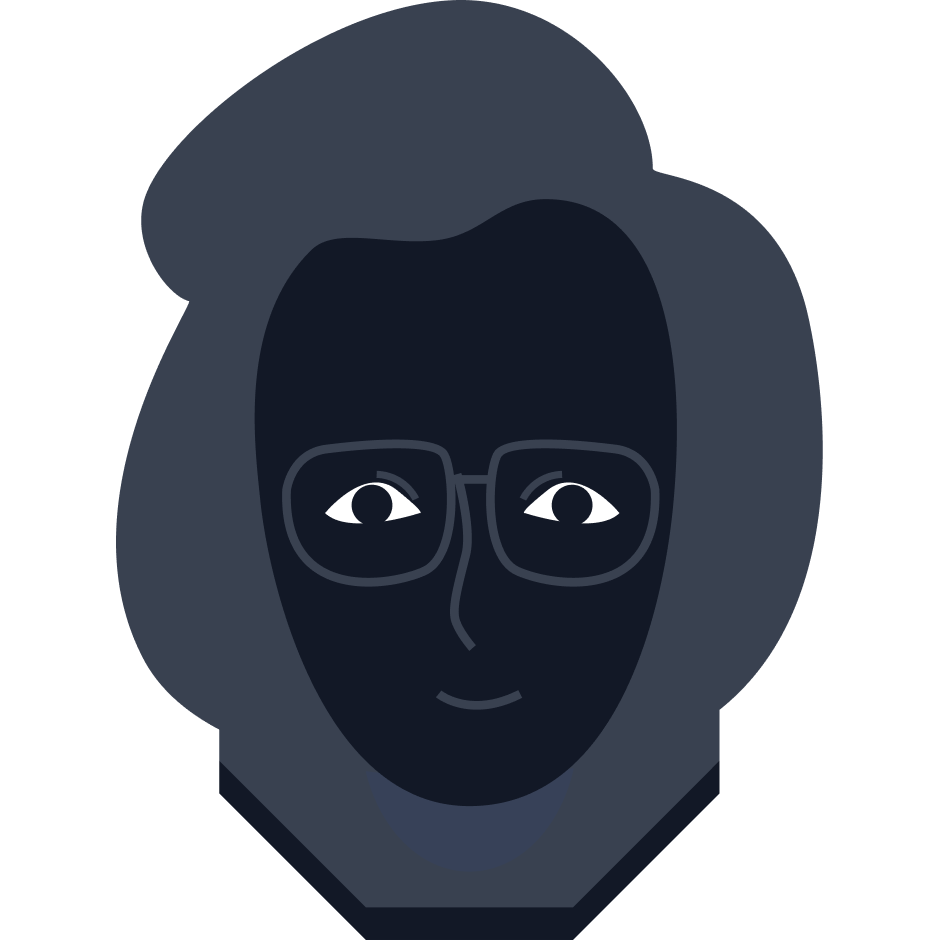
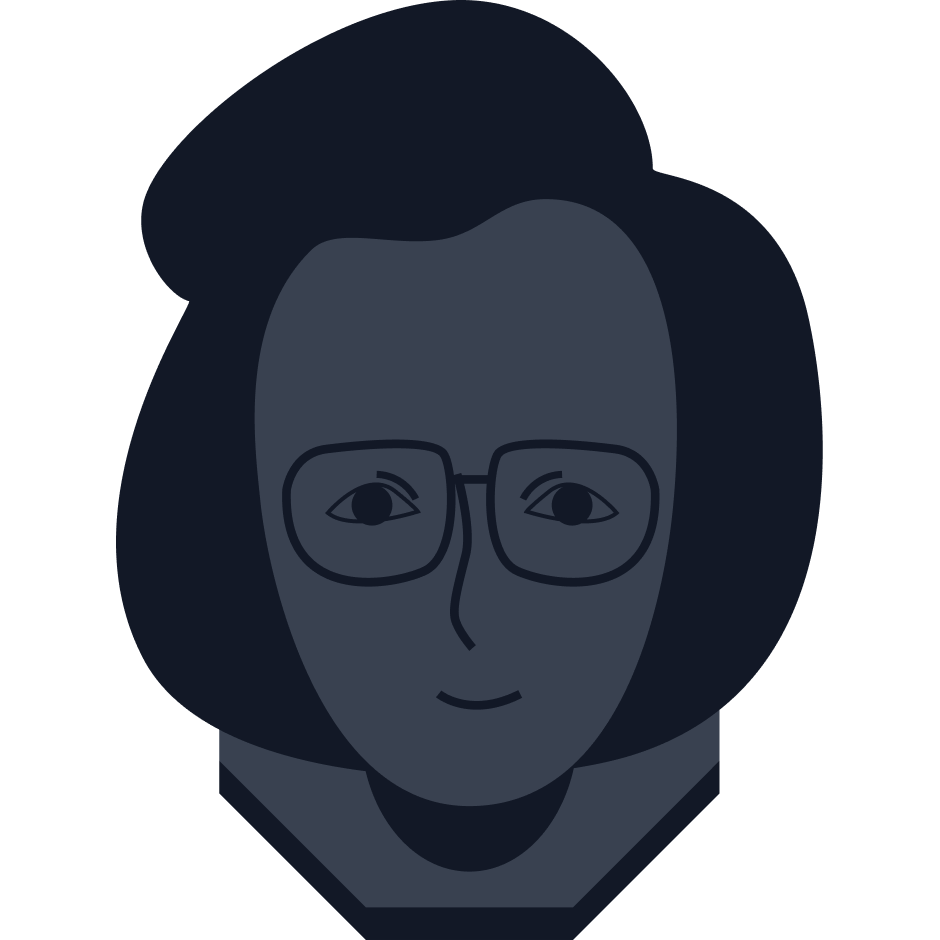
add laureate shadows

diff --git a/code/NWL2021/screen/public/script/pages/play.js b/code/NWL2021/screen/public/script/pages/play.js
@@ -3,10 +3,11 @@ function drawPlayersShadow(players) {
   const height = game.setup.unitSize;
 
   const boardState = game.gameCycle ? 1 : -1;
-
-  const imagePath = "/img/laureateShadow.png";
+  // const imagePath = "/img/laureateShadow.png";
   // draw players
   for (const player of players) {
+    if (player.laureate == undefined) return;
+    const imagePath = `/img/laureates/${player.laureate.imagePath.split(".png")[0]}_shadow.png`;
     if (!imageCache[imagePath]) {
       imageCache[imagePath] = new Image(width, height);
       imageCache[imagePath].src = imagePath;
@@ -158,9 +159,9 @@ function renderQuestion(question) {
           ctx.lineTo(
             x,
             questionPosition.y * unitSize +
-              unitSize * j +
-              unitSize -
-              unitSize / size
+            unitSize * j +
+            unitSize -
+            unitSize / size
           );
         } else {
           ctx.moveTo(
@@ -169,9 +170,9 @@ function renderQuestion(question) {
           );
           ctx.lineTo(
             questionPosition.x * unitSize +
-              unitSize * i +
-              unitSize -
-              unitSize / size,
+            unitSize * i +
+            unitSize -
+            unitSize / size,
             questionPosition.y * unitSize + unitSize * j + unitSize / 2
           );
         }
@@ -183,9 +184,9 @@ function renderQuestion(question) {
           );
           ctx.lineTo(
             questionPosition.x * unitSize +
-              unitSize * i +
-              unitSize -
-              unitSize / size,
+            unitSize * i +
+            unitSize -
+            unitSize / size,
             questionPosition.y * unitSize + unitSize * j + unitSize / 2
           );
         } else {
@@ -196,9 +197,9 @@ function renderQuestion(question) {
           ctx.lineTo(
             questionPosition.x * unitSize + unitSize * i + unitSize / 2,
             questionPosition.y * unitSize +
-              unitSize * j +
-              unitSize -
-              unitSize / size
+            unitSize * j +
+            unitSize -
+            unitSize / size
           );
         }
       }
@@ -218,8 +219,8 @@ function renderAnswer(question) {
           ? config.dotSize.small
           : config.dotSize.big
         : game.gameCycle
-        ? config.dotSize.big
-        : config.dotSize.small;
+          ? config.dotSize.big
+          : config.dotSize.small;
     //draw the mid point
     for (let i = 0; i < position.width + 1; i++) {
       for (let j = 0; j < position.height + 1; j++) {
@@ -227,11 +228,11 @@ function renderAnswer(question) {
         ctx.beginPath();
         ctx.arc(
           position.x * game.setup.unitSize +
-            game.setup.unitSize * i +
-            game.setup.unitSize / 2,
+          game.setup.unitSize * i +
+          game.setup.unitSize / 2,
           position.y * game.setup.unitSize +
-            game.setup.unitSize * j +
-            game.setup.unitSize / 2,
+          game.setup.unitSize * j +
+          game.setup.unitSize / 2,
           size,
           0,
           2 * Math.PI
